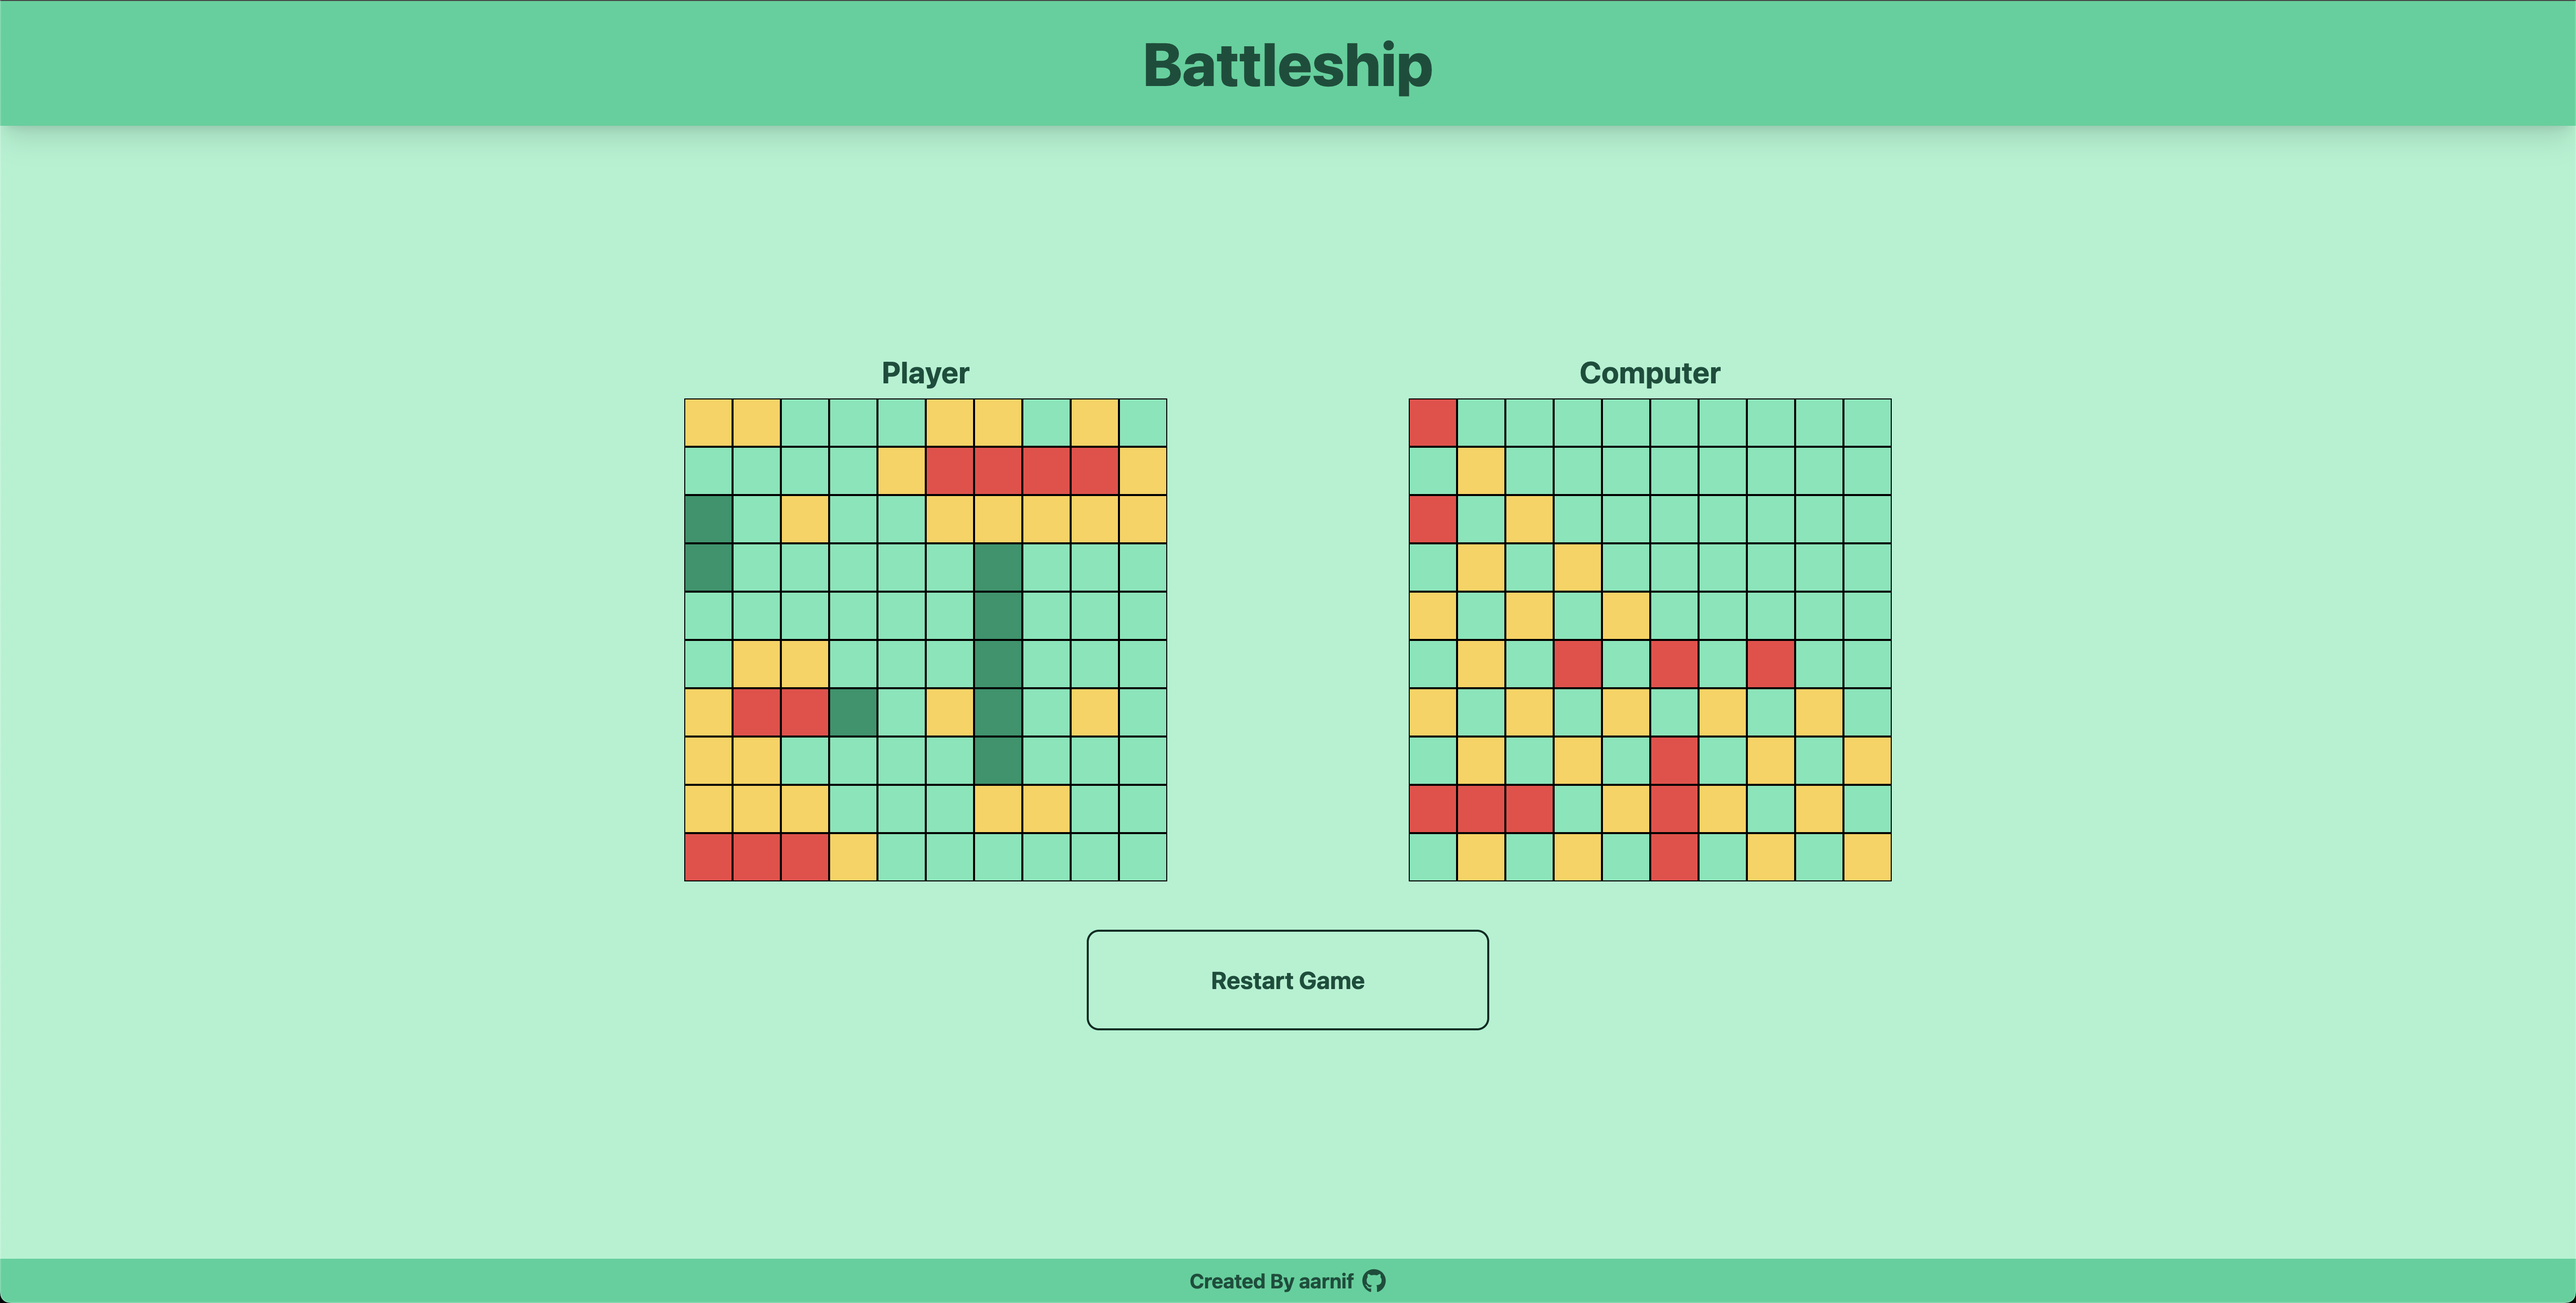
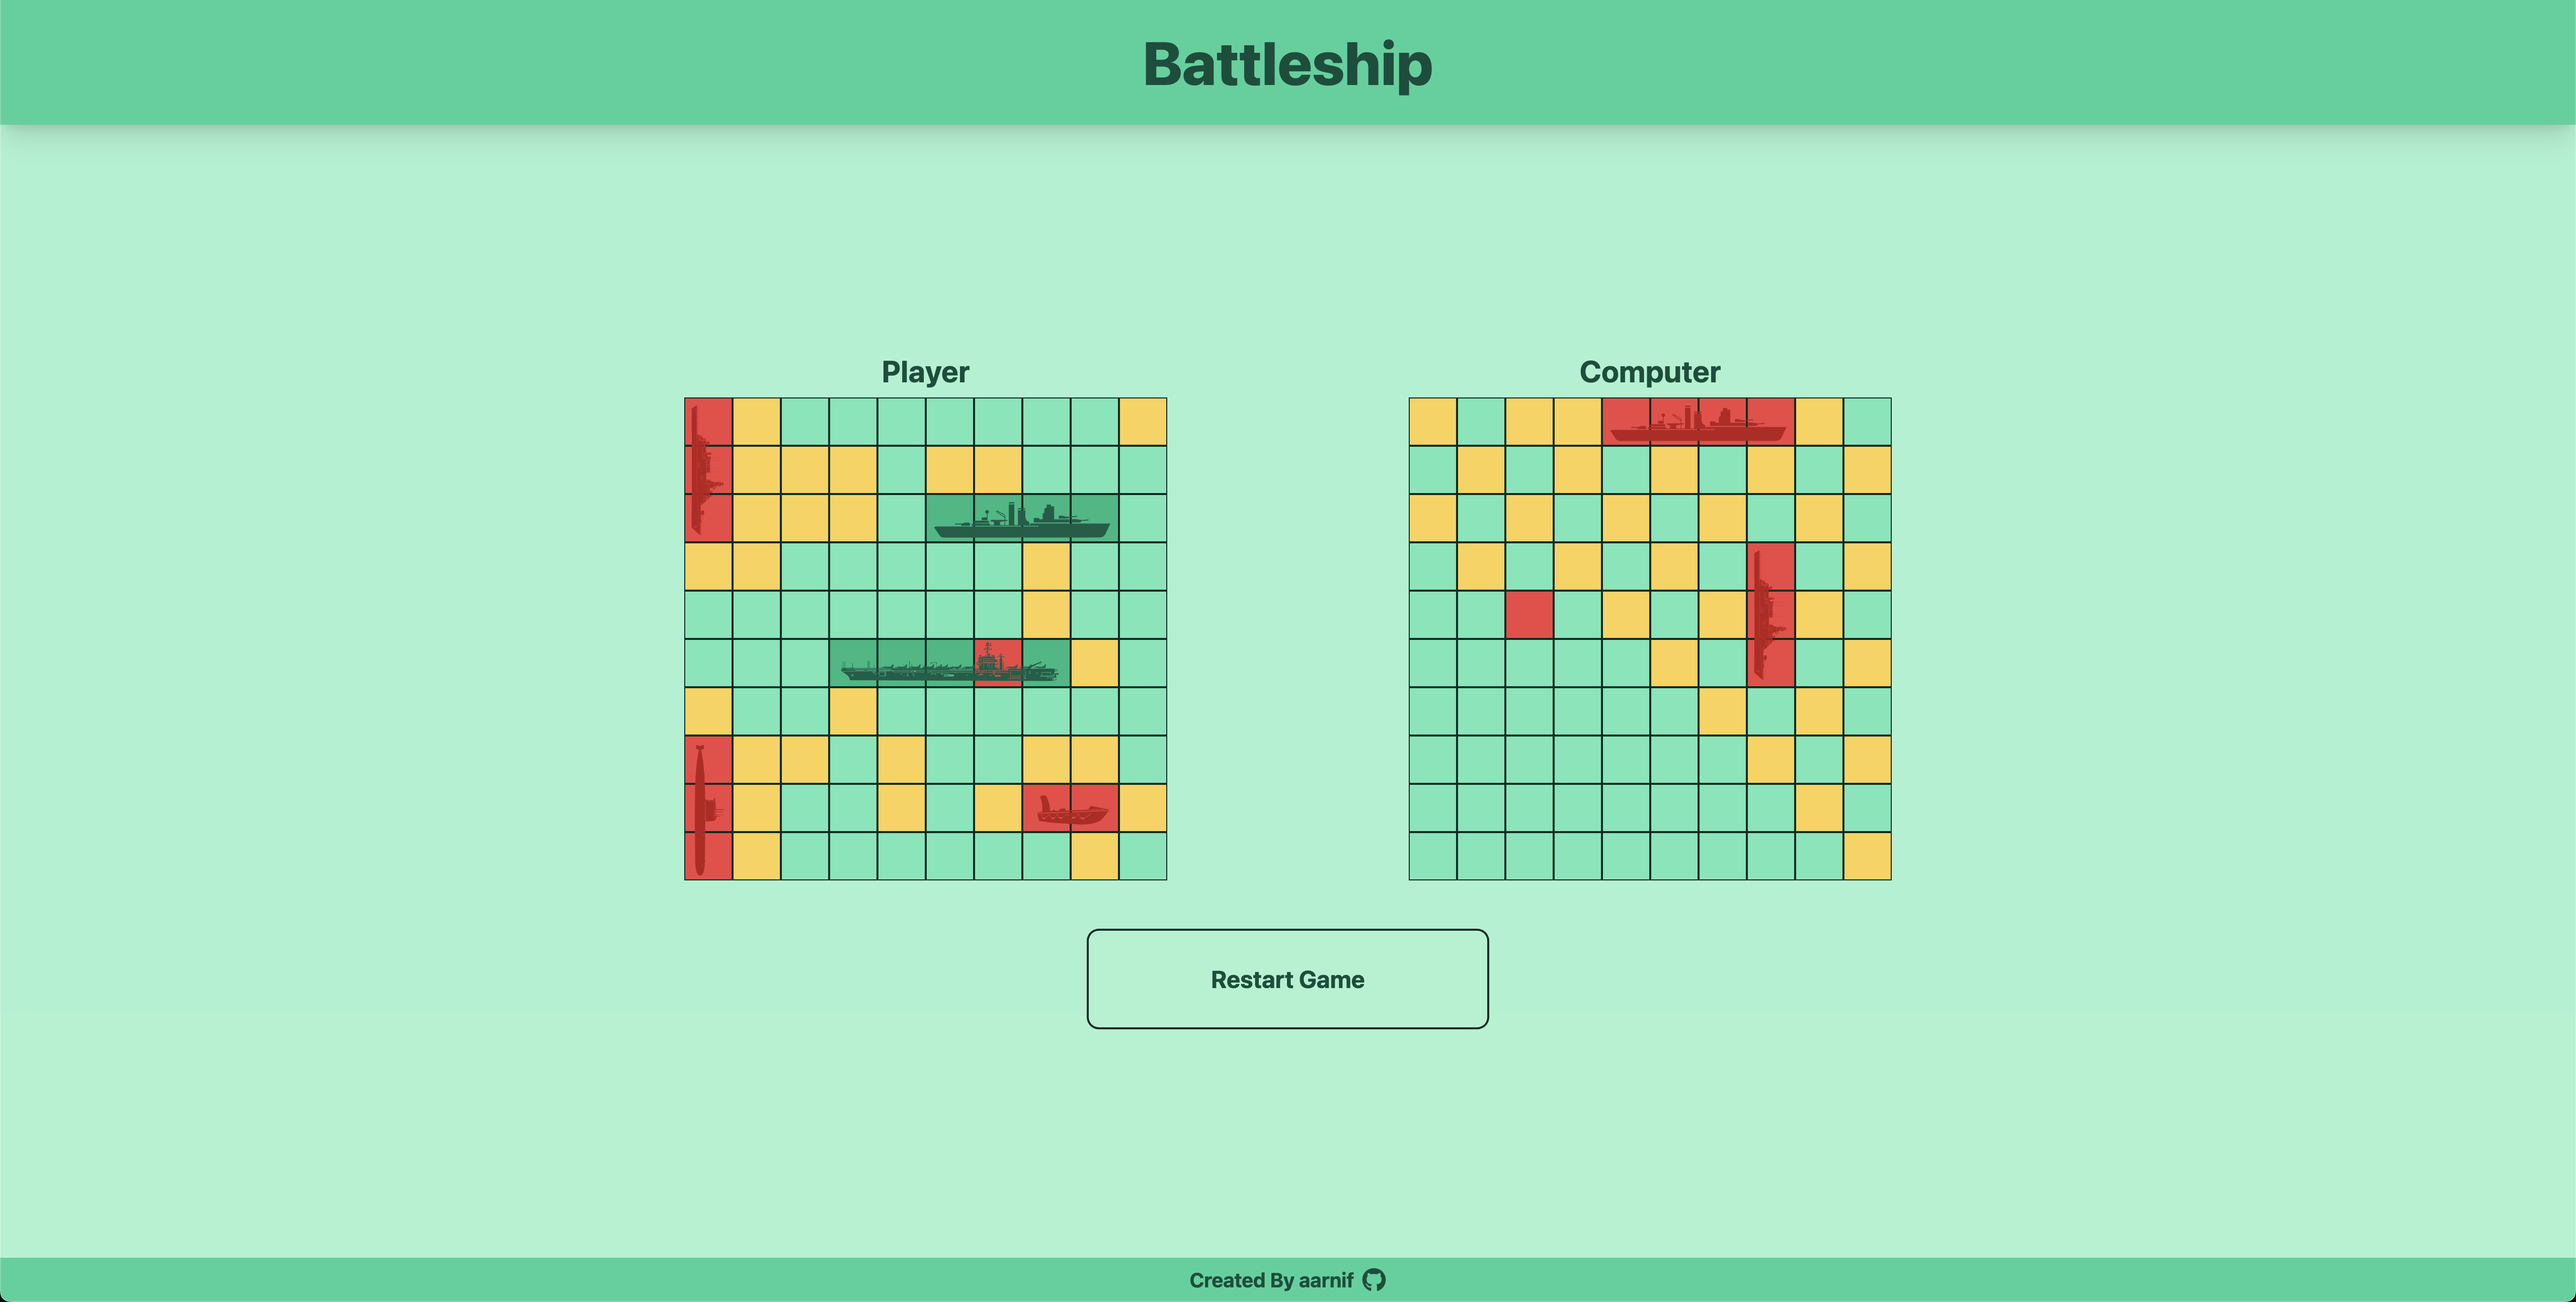
Update README.md

Changed region(s): [[0.5312, 0.2782, 0.75, 0.6801], [0.25, 0.2782, 0.4688, 0.6801]]

diff --git a/README.md b/README.md
@@ -21,7 +21,8 @@ The project is part of the [The Odin Project's](https://www.theodinproject.com/)
 
 ## Icons
 
-- [React Icons](https://react-icons.github.io/react-icons/)
+- [React Icons](https://react-icons.github.io/react-icons/) (Github Icon)
+- [usubaliev, The Noun Project](https://thenounproject.com/creator/usubaliev/) (Ship Icons)
 
 ## Images
 
